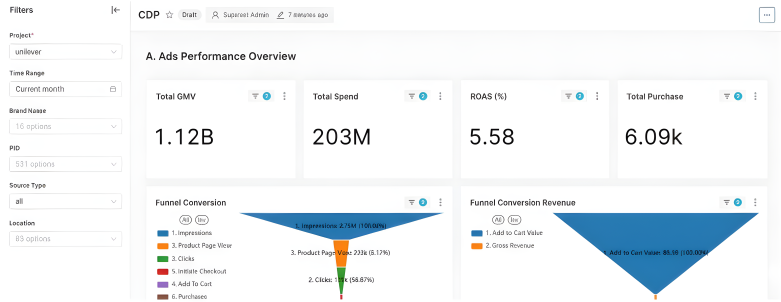
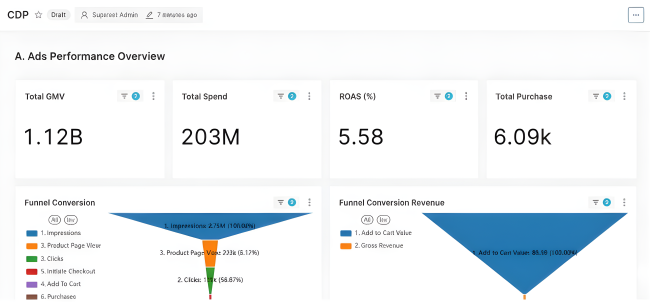
Update new portfolio content

diff --git a/src/components/Projects/ProjectCard.jsx b/src/components/Projects/ProjectCard.jsx
@@ -1,5 +1,5 @@
 import React, { useState } from "react";
-import { FaEye } from "react-icons/fa";
+import { FaEye, FaPenRuler } from "react-icons/fa6";
 import { RiFullscreenLine } from "react-icons/ri";
 import "./ProjectCard.css";
 import Pagination from "../../layouts/Pagination";
@@ -15,6 +15,9 @@ const ProjectCard = ({
         responsibilities = {},
         achievements = [],
         images = [],
+        designLink,
+        caseStudyLink,
+        showDetails = true,
     },
 }) => {
     const [isModalOpen, setIsModalOpen] = useState(false);
@@ -41,7 +44,7 @@ const ProjectCard = ({
     };
     const showPrevImage = () => {
         setFullScreenIndex((prev) =>
-            prev === 0 ? images.length - 1 : prev - 1
+            prev === 0 ? images.length - 1 : prev - 1,
         );
     };
 
@@ -103,13 +106,33 @@ const ProjectCard = ({
                         ))}
                     </ul>
                     <div className="project-card-links">
-                        <button
-                            className="project-card-link"
-                            onClick={openModal}
-                        >
-                            <FaEye className="project-card-icon" />
-                            <span>View Project</span>
-                        </button>
+                        {(showDetails || caseStudyLink) && (
+                            <button
+                                className="project-card-link"
+                                onClick={() => {
+                                    if (caseStudyLink) {
+                                        window.open(caseStudyLink, "_blank");
+                                    } else {
+                                        openModal();
+                                    }
+                                }}
+                            >
+                                <FaEye className="project-card-icon" />
+                                <span>Read Case Study</span>
+                            </button>
+                        )}
+
+                        {designLink && (
+                            <button
+                                className="project-card-link"
+                                onClick={() =>
+                                    window.open(designLink, "_blank")
+                                }
+                            >
+                                <FaPenRuler className="project-card-icon" />
+                                <span>View Designs</span>
+                            </button>
+                        )}
                     </div>
                 </div>
             </div>
@@ -188,33 +211,33 @@ const ProjectCard = ({
                                     <h4>Responsibilities</h4>
                                     {renderSection(
                                         "Problem Definition",
-                                        responsibilities["Problem Definition"]
+                                        responsibilities["Problem Definition"],
                                     )}
                                     {renderSection(
                                         "Solution Design",
-                                        responsibilities["Solution Design"]
+                                        responsibilities["Solution Design"],
                                     )}
                                     {renderSection(
                                         "Product Requirement Document (PRD)",
-                                        responsibilities["Requirement / PRD"]
+                                        responsibilities["Requirement / PRD"],
                                     )}
                                     {renderSection(
                                         "Developing",
-                                        responsibilities["Developing"]
+                                        responsibilities["Developing"],
                                     )}
                                     {renderSection(
                                         "Release Alpha & Production",
                                         responsibilities[
                                             "Release Alpha & Production"
-                                        ]
+                                        ],
                                     )}
                                     {renderSection(
                                         "Support User",
-                                        responsibilities["Support User"]
+                                        responsibilities["Support User"],
                                     )}
                                     {renderSection(
                                         "Measure & Iterate",
-                                        responsibilities["Measure & Iterate"]
+                                        responsibilities["Measure & Iterate"],
                                     )}
                                 </>
                             )}

diff --git a/src/components/Projects/Projects.jsx b/src/components/Projects/Projects.jsx
@@ -6,28 +6,32 @@ import Pagination from "../../layouts/Pagination";
 
 function Projects() {
     const [currentPage, setCurrentPage] = useState(1);
-    const [itemsPerPage, setItemsPerPage] = useState(2);
+    const [isMobile, setIsMobile] = useState(window.innerWidth <= 830);
 
     useEffect(() => {
-        const updateItemsPerPage = () => {
-            if (window.innerWidth <= 830) {
-                setItemsPerPage(1); // tablet & mobile
-            } else {
-                setItemsPerPage(2); // laptop trở lên
+        const handleResize = () => {
+            const mobile = window.innerWidth <= 830;
+            setIsMobile(mobile);
+
+            // Khi chuyển từ mobile sang desktop thì reset page
+            if (!mobile) {
+                setCurrentPage(1);
             }
         };
 
-        updateItemsPerPage();
-        window.addEventListener("resize", updateItemsPerPage);
-        return () => window.removeEventListener("resize", updateItemsPerPage);
+        window.addEventListener("resize", handleResize);
+
+        return () => window.removeEventListener("resize", handleResize);
     }, []);
 
-    const totalProjects = projects.length;
-    const startIndex = (currentPage - 1) * itemsPerPage;
-    const currentProjects = projects.slice(
-        startIndex,
-        startIndex + itemsPerPage
-    );
+    const itemsPerPage = 1;
+
+    const currentProjects = isMobile
+        ? projects.slice(
+              (currentPage - 1) * itemsPerPage,
+              currentPage * itemsPerPage,
+          )
+        : projects;
 
     const handlePageChange = (page) => {
         setCurrentPage(page);
@@ -36,17 +40,21 @@ function Projects() {
     return (
         <section className="projects-container" id="projects">
             <h2 className="projects-title">Projects</h2>
+
             <div className="projects-content">
-                {currentProjects.map((project, id) => (
-                    <ProjectCard key={id} project={project} />
+                {currentProjects.map((project, index) => (
+                    <ProjectCard key={index} project={project} />
                 ))}
             </div>
-            <Pagination
-                totalItems={totalProjects}
-                itemsPerPage={itemsPerPage}
-                currentPage={currentPage}
-                onPageChange={handlePageChange}
-            />
+
+            {isMobile && (
+                <Pagination
+                    totalItems={projects.length}
+                    itemsPerPage={itemsPerPage}
+                    currentPage={currentPage}
+                    onPageChange={handlePageChange}
+                />
+            )}
         </section>
     );
 }

diff --git a/src/components/Projects/ProjectCard.css b/src/components/Projects/ProjectCard.css
@@ -1,15 +1,19 @@
 .project-card-container {
     position: relative;
     overflow: hidden;
-    flex: 1 1 calc(50% - 20px); /* laptop: 2 card / hàng */
-    max-width: 500px;
-    min-width: 300px;
+
+    width: 100%;
+    max-width: 700px;
+
     height: 350px;
+
     border-radius: 12px;
     box-shadow: 0 4px 12px rgba(0, 0, 0, 0.15);
     transition: transform 0.3s ease;
     text-align: center;
     background: #fff;
+
+    justify-self: center;
 }
 
 .project-card-container:hover {
@@ -62,7 +66,9 @@
     padding: 20px;
     transform: translateY(100%);
     opacity: 0;
-    transition: transform 0.3s ease, opacity 0.3s ease;
+    transition:
+        transform 0.3s ease,
+        opacity 0.3s ease;
     display: flex;
     flex-direction: column;
     justify-content: flex-start;
@@ -100,12 +106,13 @@
 }
 
 .project-card-links {
-    margin-top: auto; /* đẩy xuống cuối cùng */
+    margin-top: auto;
     display: flex;
-    gap: 20px;
     justify-content: center;
     align-items: center;
-    padding-bottom: 20px; /* chừa khoảng cách với mép dưới */
+    gap: 12px;
+    flex-wrap: wrap;
+    padding-bottom: 20px;
 }
 
 .project-card-link {
@@ -259,7 +266,10 @@
         rgba(170, 54, 124, 0.5) -5.91%,
         rgba(74, 47, 189, 0.5) 100%
     );
-    transition: background 0.6s ease, transform 0.6s ease, color 0.6s ease;
+    transition:
+        background 0.6s ease,
+        transform 0.6s ease,
+        color 0.6s ease;
     color: #fff;
     font-size: 0.9rem;
     font-weight: 500;
@@ -415,7 +425,31 @@
 .fullscreen-icon-btn:hover {
     background: rgba(0, 0, 0, 0.8);
 }
+/* Laptop nhỏ */
+@media (max-width: 1400px) {
+    .project-card-container {
+        height: 320px;
+    }
 
+    .project-card-info {
+        padding: 16px;
+    }
+
+    .project-card-desc {
+        font-size: 0.9rem;
+        line-height: 1.4;
+    }
+
+    .project-card-skill {
+        font-size: 0.75rem;
+        padding: 4px 8px;
+    }
+
+    .project-card-link {
+        font-size: 0.85rem;
+        padding: 6px 12px;
+    }
+}
 /* Responsive: tablet */
 /* Responsive: tablet -> mobile unified fix */
 @media (max-width: 830px) {
@@ -466,7 +500,9 @@
         padding: 18px 15px 80px;
         transform: translateY(100%);
         opacity: 0;
-        transition: transform 0.28s ease, opacity 0.28s ease;
+        transition:
+            transform 0.28s ease,
+            opacity 0.28s ease;
         display: flex;
         flex-direction: column;
         justify-content: flex-start;

diff --git a/src/components/About/About.jsx b/src/components/About/About.jsx
@@ -16,14 +16,21 @@ function About() {
                         <div className="about-item-text">
                             <h3>I’m Duyen </h3>
 
+                            <p style={{ marginBottom: "20px" }}>
+                                I believe great products begin with
+                                understanding people!
+                            </p>
+
+                            <p style={{ marginBottom: "20px" }}>
+                                As a Business Analyst and UI/UX Designer, I
+                                enjoy discovering user needs, analyzing business
+                                challenges, and designing solutions that are
+                                simple, meaningful, and practical.
+                            </p>
                             <p>
-                                I am a Business Analyst with hands-on experience
-                                in gathering requirements, analyzing business
-                                processes, and creating clear documentation to
-                                support better decision-making. With strong
-                                analytical and communication skills, I am eager
-                                to contribute to improving processes and systems
-                                for measurable business outcomes.
+                                My goal is to connect business objectives with
+                                user-centered design to create products that
+                                people genuinely enjoy using.
                             </p>
                         </div>
                     </li>

diff --git a/src/components/Projects/Projects.css b/src/components/Projects/Projects.css
@@ -2,9 +2,9 @@
 
 .projects-container {
     margin-top: 76px;
-    color: var(--color-text);
     margin-left: 10%;
     margin-right: 10%;
+    color: var(--color-text);
 }
 
 .projects-title {
@@ -16,9 +16,22 @@
 
 .projects-content {
     margin-top: 37px;
-    display: flex;
-    flex-wrap: wrap;
-    justify-content: center;
-    gap: 25px;
+    display: grid;
+    grid-template-columns: repeat(2, 1fr);
+    gap: 32px;
     width: 100%;
+}
+
+@media screen and (max-width: 1100px) {
+    .projects-content {
+        grid-template-columns: 1fr;
+    }
+}
+
+/* Tablet & Mobile */
+@media screen and (max-width: 830px) {
+    .projects-content {
+        display: flex;
+        justify-content: center;
+    }
 }

diff --git a/src/components/Hero/Hero.jsx b/src/components/Hero/Hero.jsx
@@ -5,7 +5,11 @@ import heroImage from "/hero/heroImage2.png";
 function Hero() {
     const [loopNum, setLoopNum] = useState(0);
     const [isDeleting, setIsDeleting] = useState(false);
-    const toRotate = ["Nguyen Quynh Duyen", "a Business Analyst"];
+    const toRotate = [
+        "Nguyen Quynh Duyen",
+        "a Business Analyst",
+        "a UI/UX Designer",
+    ];
     const [text, setText] = useState("");
     const [delta, setDelta] = useState(300 - Math.random() * 100);
     const period = 2000;

diff --git a/src/components/Skills/Skills.css b/src/components/Skills/Skills.css
@@ -65,7 +65,9 @@
     animation-duration: 3s;
     animation-iteration-count: infinite;
     animation-timing-function: ease-in-out;
-    transition: transform 0.3s, background-color 0.3s;
+    transition:
+        transform 0.3s,
+        background-color 0.3s;
 }
 
 @keyframes floating {
